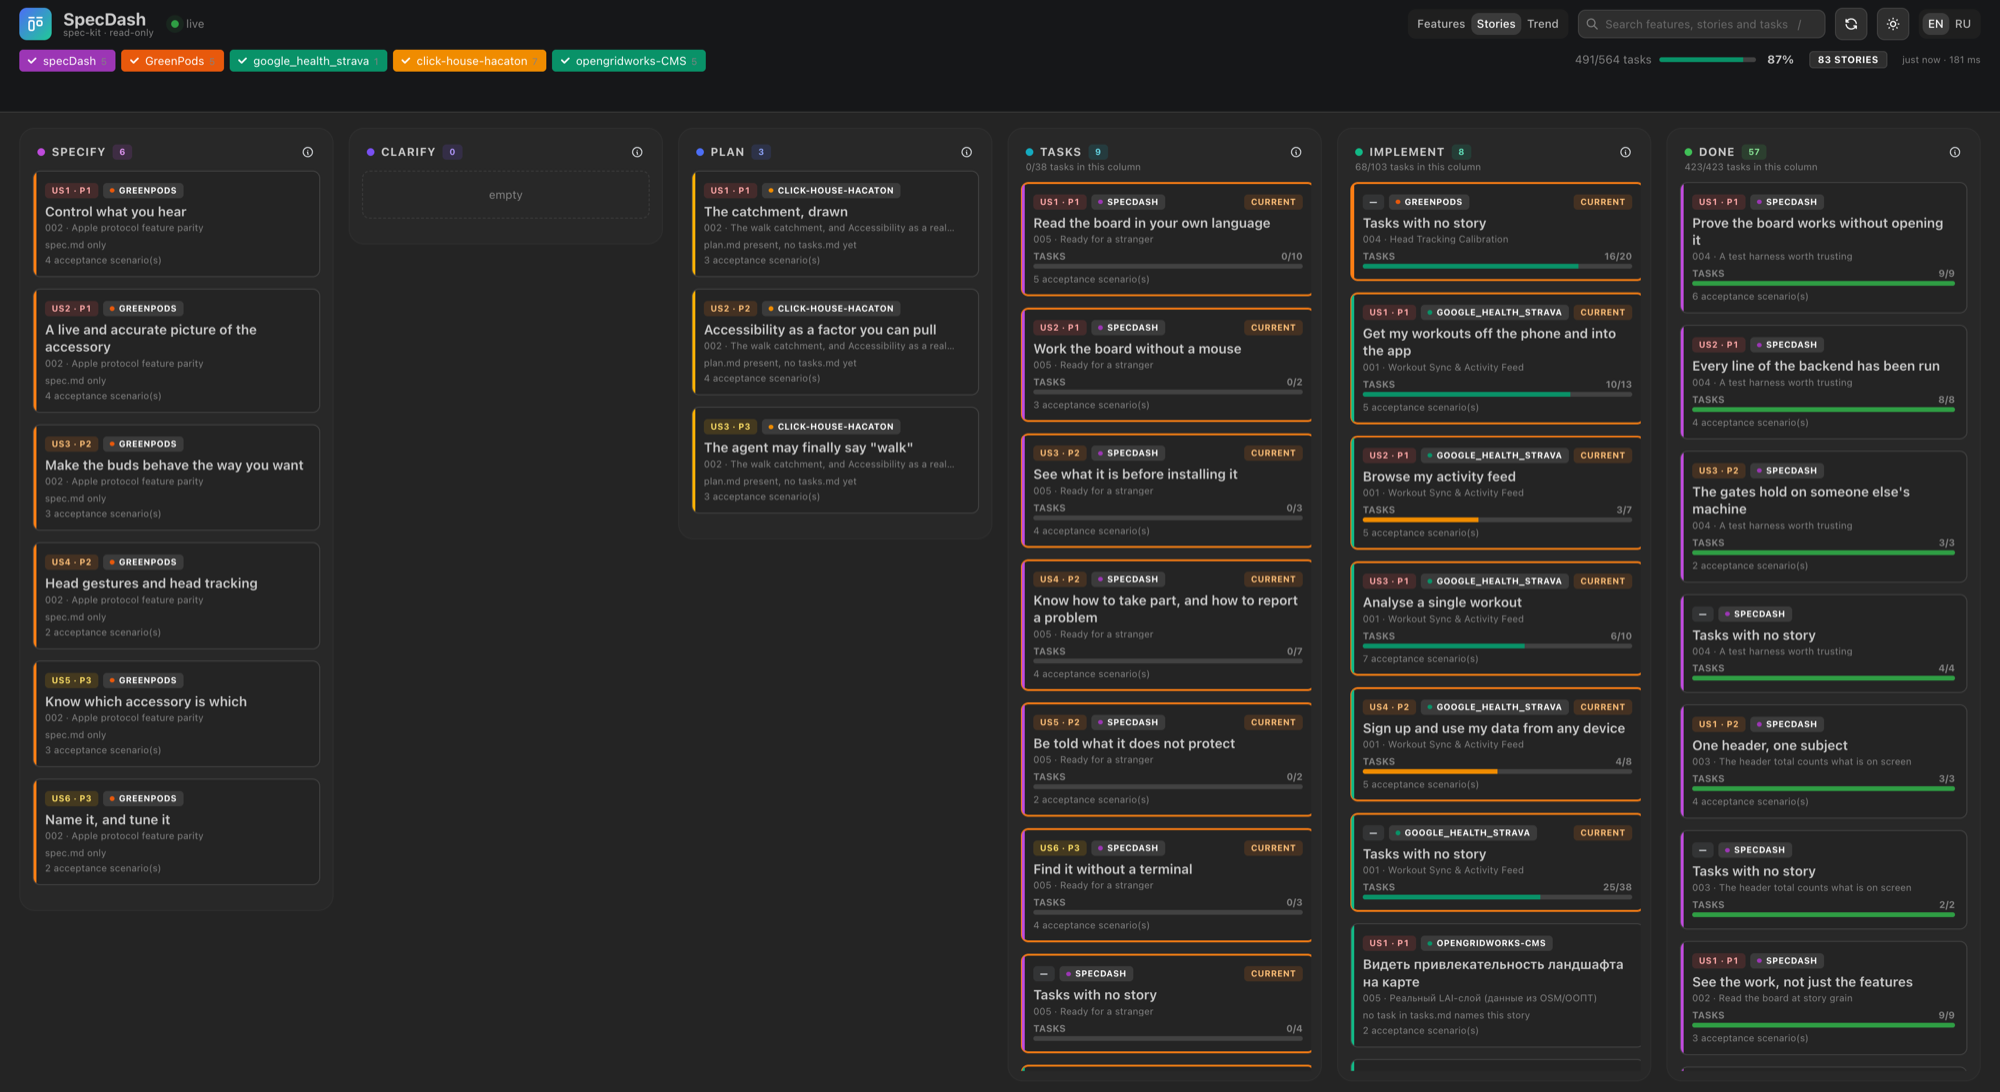
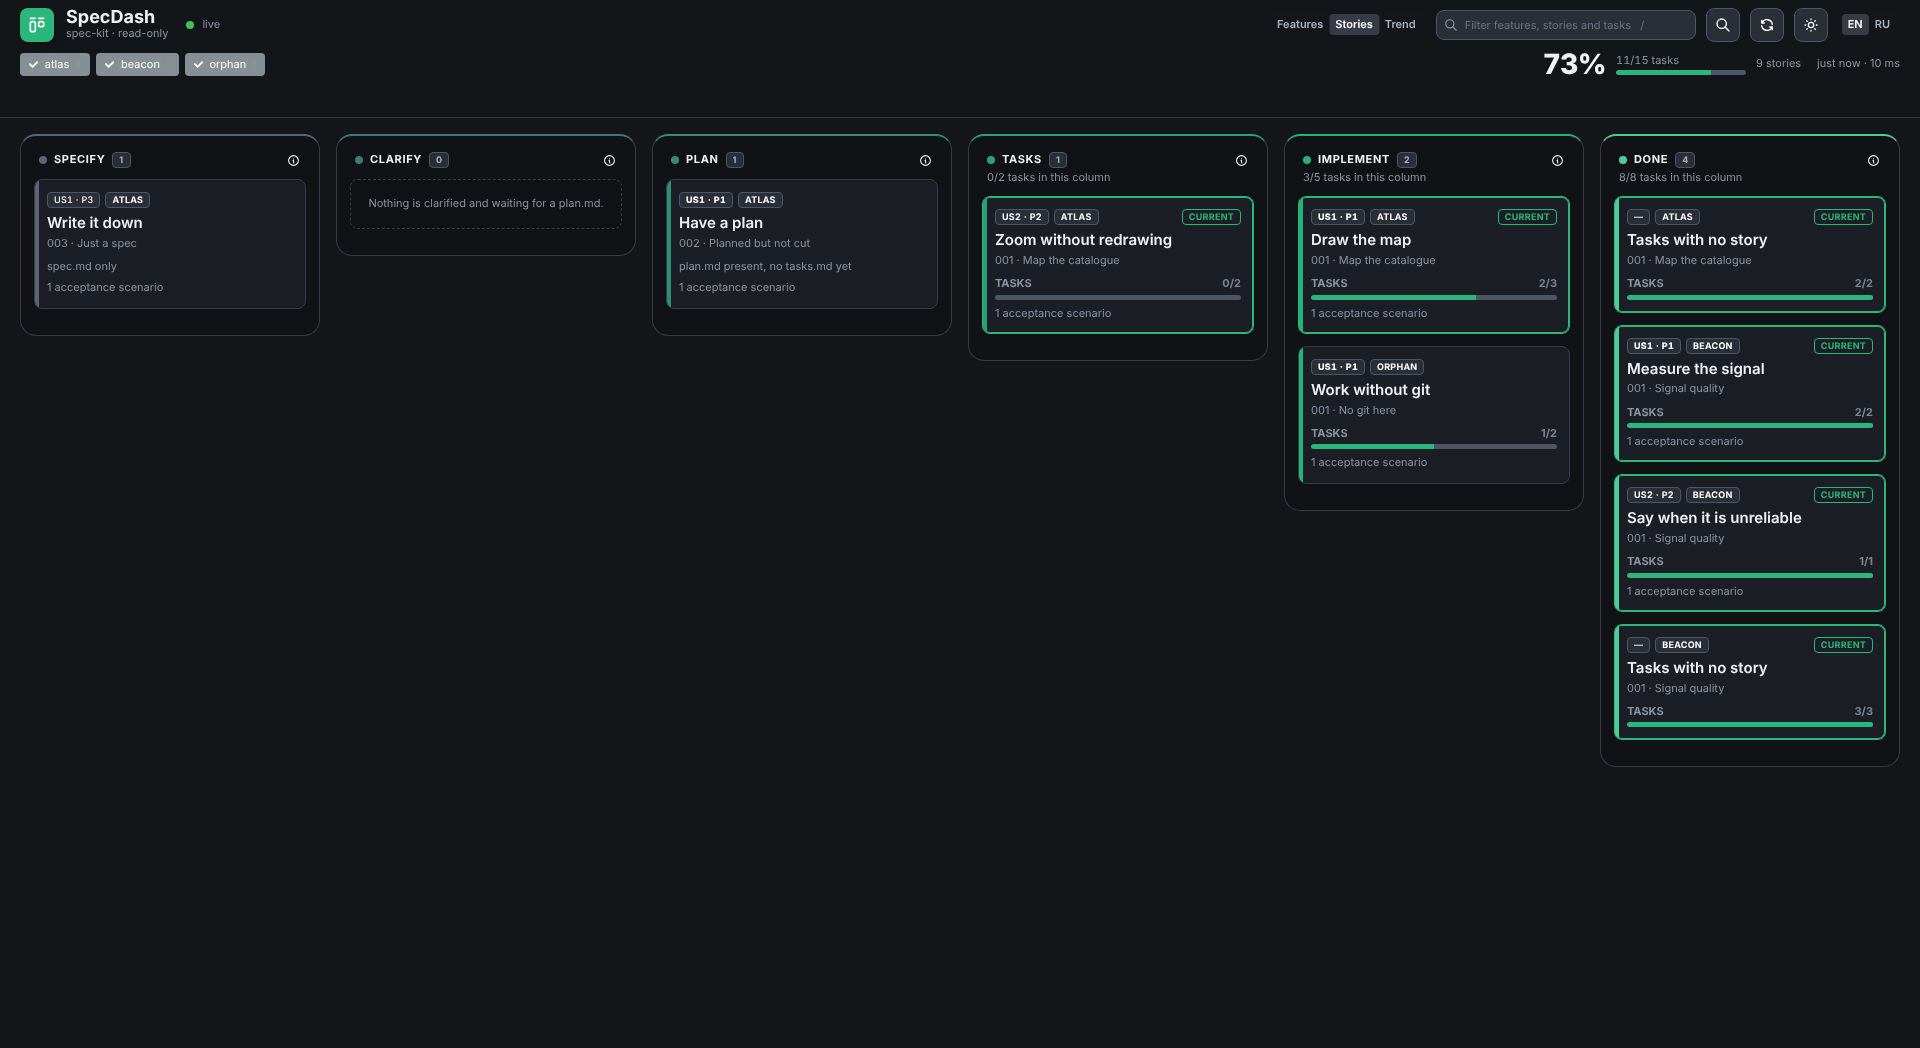
docs: regenerate README screenshots from the e2e fixtures
The shots in .github/assets still showed the old design and were taken
against a real root. They are now produced by a Playwright script
(npm run screenshots in e2e/) against the fixture workspace, so they
can be refreshed with one command and carry no private project names.

Claude-Session: https://claude.ai/code/session_01HubaKNnAr41KzSwctQVqF2

diff --git a/e2e/screenshots/readme.spec.ts b/e2e/screenshots/readme.spec.ts
@@ -1,0 +1,52 @@
+import { expect, test, type Page } from '@playwright/test'
+import path from 'node:path'
+import { fileURLToPath } from 'node:url'
+import { gotoBoard, setGrain } from '../tests/helpers'
+
+const assets = path.resolve(path.dirname(fileURLToPath(import.meta.url)), '..', '..', '.github', 'assets')
+
+function shot(page: Page, name: string) {
+  return page.screenshot({ path: path.join(assets, `${name}.png`) })
+}
+
+async function openAtlas(page: Page) {
+  await page.getByTestId('feature-card').filter({ hasText: 'Map the catalogue' }).first().click()
+  const drawer = page.getByRole('dialog')
+  await expect(drawer).toContainText('4/7 tasks ticked')
+  return drawer
+}
+
+test('board-features', async ({ page }) => {
+  await gotoBoard(page, 'features')
+  await shot(page, 'board-features')
+})
+
+test('board-stories', async ({ page }) => {
+  await gotoBoard(page, 'stories')
+  await shot(page, 'board-stories')
+})
+
+test('drawer-overview', async ({ page }) => {
+  await gotoBoard(page)
+  await openAtlas(page)
+  await page.waitForTimeout(400) // the drawer slides in
+  await shot(page, 'drawer-overview')
+})
+
+test('drawer-tasks', async ({ page }) => {
+  await gotoBoard(page)
+  const drawer = await openAtlas(page)
+  await drawer.getByRole('tab', { name: 'Tasks' }).click()
+  await expect(drawer.getByText('T003', { exact: true })).toBeVisible()
+  await page.waitForTimeout(400)
+  await shot(page, 'drawer-tasks')
+})
+
+test('trend', async ({ page }) => {
+  await gotoBoard(page)
+  await setGrain(page, 'Trend')
+  await expect(page.locator('svg[role="img"]').first()).toBeVisible({ timeout: 15_000 })
+  await expect(page.getByText('reading git history…')).toHaveCount(0, { timeout: 15_000 })
+  await page.waitForTimeout(400)
+  await shot(page, 'trend')
+})

diff --git a/e2e/screenshots.config.ts b/e2e/screenshots.config.ts
@@ -1,0 +1,21 @@
+import { defineConfig } from '@playwright/test'
+import base from './playwright.config'
+
+// The README's pictures, taken against the same fixture workspace the suite uses —
+// never against a real root, which would publish whatever projects happen to sit in it.
+//   npm run screenshots
+export default defineConfig({
+  ...base,
+  testDir: './screenshots',
+  retries: 0,
+  reporter: [['list']],
+  use: {
+    ...base.use,
+    viewport: { width: 1920, height: 1048 },
+    deviceScaleFactor: 1,
+    colorScheme: 'dark',
+    trace: 'off',
+    video: 'off',
+  },
+  projects: undefined,
+})

diff --git a/specs/009-one-system-of-colour/tasks.md b/specs/009-one-system-of-colour/tasks.md
@@ -104,6 +104,6 @@ palette validation would have:
 
 ## Outstanding
 
-- [ ] T043 Regenerate `.github/assets/*.png`, which still show the old design. Held deliberately:
-      the current shots are taken against the author's real root and would put three project names
-      into a public repository that were not there before. Needs a decision, not a command.
+- [x] T043 Regenerate `.github/assets/*.png`, which still showed the old design. Taken against the
+      e2e fixture workspace (atlas, beacon, orphan) rather than the author's real root, so no project
+      name enters the repository that was not already in it; `npm run screenshots` in `e2e/`.
